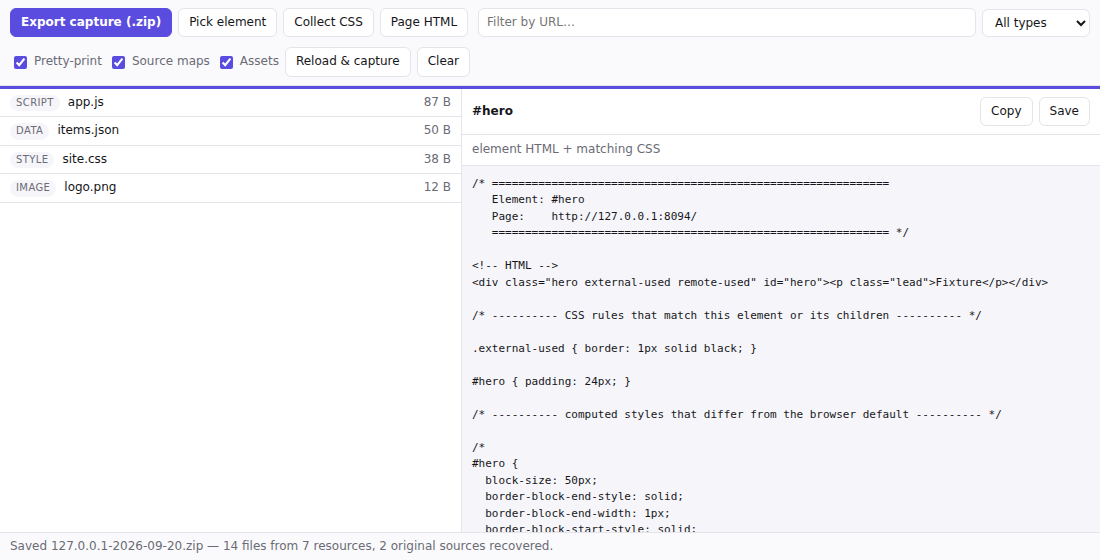
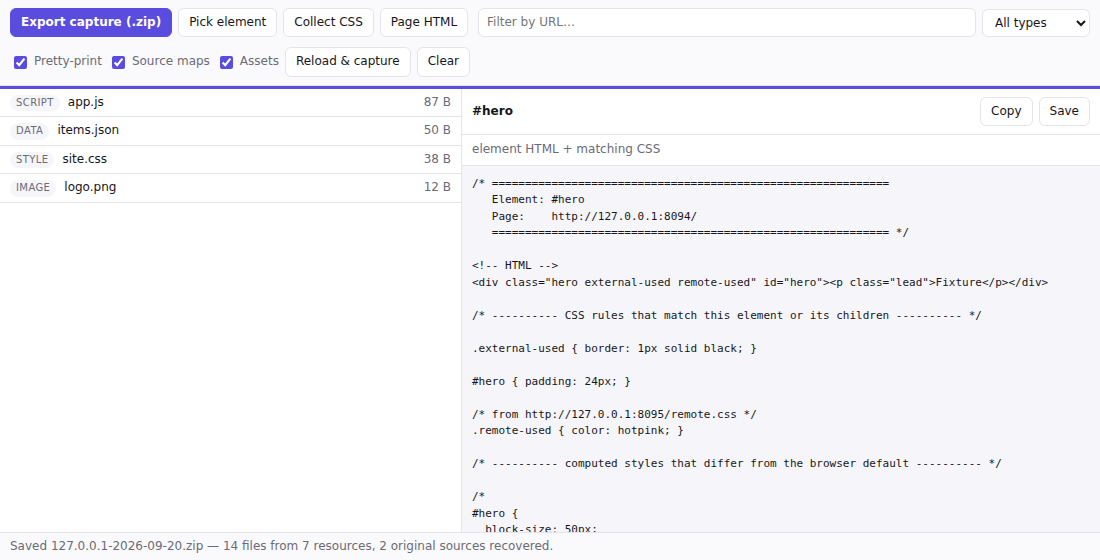
Give the element picker cross-origin CSS
The picker runs inside the page, where a cross-origin stylesheet throws on
cssRules, so CDN-hosted rules were missing from every picked snippet.

The extension now fetches those stylesheets before the picker starts and
passes the text in; the picker re-parses them as constructed stylesheets and
matches them like any other source. Rules from a fetched sheet are credited
with a /* from <href> */ banner, and their relative url() references are
rewritten to absolute so a pasted snippet still renders elsewhere.

The popup no longer injects the picker itself: it asks the service worker,
which outlives the popup when it closes on the user's click. The DevTools
panel and the popup now share one picker driver.

Claude-Session: https://claude.ai/code/session_01LyV3ssgCNSxuY3qXMzqTU8

Changed region(s): [[0.4327, 0.8196, 0.8345, 0.9714], [0.4327, 0.7286, 0.8345, 0.7893]]

diff --git a/web-source-copier/src/lib/element-inspector.js b/web-source-copier/src/lib/element-inspector.js
@@ -13,6 +13,20 @@ export function elementInspectorRunner(request) {
   const deliver = (request && request.deliver) || 'return';
   const ID = '__web_source_copier_picker__';
 
+  // Stylesheets the page itself cannot read (cross-origin, no CORS headers).
+  // The extension fetched them for us; re-parse them here so their rules can be
+  // matched against the picked element like any other source.
+  const externalSheets = [];
+  ((request && request.externalCss) || []).forEach((entry) => {
+    try {
+      const sheet = new CSSStyleSheet();
+      sheet.replaceSync(entry.css);
+      externalSheets.push({ label: entry.href, rules: sheet.cssRules });
+    } catch (err) {
+      /* unparseable stylesheet: skipped */
+    }
+  });
+
   const previous = document.getElementById(ID);
   if (previous) previous.remove();
 
@@ -97,45 +111,50 @@ export function elementInspectorRunner(request) {
         }
       });
 
-    const walk = (rules, wrapper) => {
+    const walk = (rules, wrapper, source) => {
       for (const rule of rules) {
         if (rule instanceof CSSStyleRule) {
-          if (matchesAny(rule.selectorText)) hits.push({ wrapper, text: rule.cssText });
+          if (matchesAny(rule.selectorText)) hits.push({ wrapper, source, text: rule.cssText });
         } else if (typeof CSSGroupingRule !== 'undefined' && rule instanceof CSSGroupingRule) {
           const prelude = rule.cssText.slice(0, rule.cssText.indexOf('{') + 1).trim();
-          walk(rule.cssRules, wrapper ? wrapper + '\n' + prelude : prelude);
+          walk(rule.cssRules, wrapper ? wrapper + '\n' + prelude : prelude, source);
         } else if (rule instanceof CSSFontFaceRule || (typeof CSSKeyframesRule !== 'undefined' && rule instanceof CSSKeyframesRule)) {
-          hits.push({ wrapper: '', text: rule.cssText, atRule: true });
+          hits.push({ wrapper: '', source, text: rule.cssText, atRule: true });
         }
       }
     };
 
     Array.from(document.styleSheets).forEach((sheet) => {
       try {
-        walk(sheet.cssRules, '');
+        walk(sheet.cssRules, '', '');
       } catch (err) {
-        /* cross-origin sheet: skipped here, the full export still fetches it */
+        /* unreadable here; the same sheet arrives below via externalSheets */
       }
     });
+    externalSheets.forEach((sheet) => walk(sheet.rules, '', sheet.label));
 
     const grouped = new Map();
     hits.forEach((hit) => {
       if (hit.atRule) return;
-      const list = grouped.get(hit.wrapper) || [];
+      const key = hit.source + '\u0000' + hit.wrapper;
+      const list = grouped.get(key) || [];
       list.push(hit.text);
-      grouped.set(hit.wrapper, list);
+      grouped.set(key, list);
     });
 
     const chunks = [];
-    grouped.forEach((list, wrapper) => {
+    grouped.forEach((list, key) => {
+      const source = key.split('\u0000')[0];
+      const wrapper = key.slice(source.length + 1);
+      const banner = source ? '/* from ' + source + ' */\n' : '';
       const body = list.join('\n\n');
       if (!wrapper) {
-        chunks.push(body);
+        chunks.push(banner + body);
         return;
       }
       const opens = wrapper.split('\n');
       const indented = body.split('\n').map((line) => (line ? '  '.repeat(opens.length) + line : line)).join('\n');
-      chunks.push(opens.join(' {\n') + '\n' + indented + '\n' + opens.map(() => '}').join('\n'));
+      chunks.push(banner + opens.join(' {\n') + '\n' + indented + '\n' + opens.map(() => '}').join('\n'));
     });
 
     const fontFaces = hits.filter((hit) => hit.atRule).map((hit) => hit.text);
@@ -200,7 +219,7 @@ export function elementInspectorRunner(request) {
       '',
       '/* ---------- CSS rules that match this element or its children ---------- */',
       '',
-      css || '/* none — this element is styled only inline or by cross-origin CSS */'
+      css || '/* none — this element carries no matching rules (inline styles only?) */'
     ];
     if (atRules.length) {
       parts.push('', '/* ---------- @font-face / @keyframes in scope ---------- */', '', atRules.join('\n\n'));

diff --git a/web-source-copier/src/lib/picker.js b/web-source-copier/src/lib/picker.js
@@ -1,0 +1,92 @@
+/**
+ * Driving the element picker from an extension context.
+ *
+ * A page cannot read a cross-origin stylesheet, and the picker runs inside the
+ * page, so on its own it would miss every rule served from a CDN. The fix is to
+ * fetch those sheets here first — where `host_permissions` apply — and hand the
+ * text to the picker, which parses it into constructed stylesheets and matches
+ * against it like any other source.
+ */
+
+import { elementInspectorRunner } from './element-inspector.js';
+
+/** Injected: which stylesheets does this page refuse to let us read? */
+export function blockedSheetHrefsRunner() {
+  const hrefs = [];
+  Array.from(document.styleSheets).forEach((sheet) => {
+    try {
+      // Touching cssRules is what throws on a cross-origin sheet.
+      void sheet.cssRules;
+    } catch (err) {
+      if (sheet.href) hrefs.push(sheet.href);
+    }
+  });
+  return hrefs;
+}
+
+/**
+ * Rewrites relative `url()` references against the stylesheet's own URL.
+ * Fetched CSS is re-parsed inside the page, where a relative path would
+ * otherwise resolve against the page instead of the stylesheet.
+ */
+export function absolutizeCssUrls(css, baseHref) {
+  if (!baseHref) return css;
+  return css.replace(/url\(\s*(['"]?)([^'")]+)\1\s*\)/gi, (match, quote, reference) => {
+    const trimmed = reference.trim();
+    if (!trimmed || /^(data:|blob:|about:|#|https?:|\/\/)/i.test(trimmed)) return match;
+    try {
+      return 'url(' + quote + new URL(trimmed, baseHref).href + quote + ')';
+    } catch (err) {
+      return match;
+    }
+  });
+}
+
+/** Every stylesheet the page cannot read, fetched and ready to re-parse. */
+export async function fetchExternalCss(tabId) {
+  let hrefs = [];
+  try {
+    const results = await chrome.scripting.executeScript({
+      target: { tabId },
+      func: blockedSheetHrefsRunner
+    });
+    hrefs = Array.from(new Set(results.flatMap((entry) => entry.result || [])));
+  } catch (err) {
+    return [];
+  }
+
+  const fetched = await Promise.all(
+    hrefs.map(async (href) => {
+      try {
+        let response = await fetch(href, { credentials: 'omit' });
+        if (response.status === 401 || response.status === 403) {
+          response = await fetch(href, { credentials: 'include' });
+        }
+        if (!response.ok) return null;
+        return { href, css: absolutizeCssUrls(await response.text(), href) };
+      } catch (err) {
+        return null;
+      }
+    })
+  );
+
+  return fetched.filter(Boolean);
+}
+
+/**
+ * @param {object} config
+ * @param {number} config.tabId
+ * @param {'clipboard'|'return'} [config.deliver] 'clipboard' lets the page copy
+ *        from inside its own click handler, which is what makes the popup flow
+ *        work after the popup has closed.
+ * @returns the picked element's payload, or null if the user pressed Esc.
+ */
+export async function runPicker(config) {
+  const externalCss = await fetchExternalCss(config.tabId);
+  const [{ result }] = await chrome.scripting.executeScript({
+    target: { tabId: config.tabId },
+    func: elementInspectorRunner,
+    args: [{ deliver: config.deliver || 'return', externalCss }]
+  });
+  return result;
+}

diff --git a/web-source-copier/src/background/service-worker.js b/web-source-copier/src/background/service-worker.js
@@ -1,10 +1,16 @@
 /**
- * Fetches stylesheets the page itself is not allowed to read.
+ * Two jobs the page cannot do for itself:
+ *
+ * 1. fetch stylesheets it is not allowed to read, and
+ * 2. start the element picker on the popup's behalf — the popup closes the
+ *    moment the user clicks the page, so the injection is owned here instead.
  *
  * A cross-origin <link rel="stylesheet"> without CORS headers throws on
  * `sheet.cssRules`, but the extension's host permissions let the service worker
  * fetch the same URL and hand the text back to the popup.
  */
+
+import { runPicker } from '../lib/picker.js';
 
 const MAX_BYTES = 8 * 1024 * 1024;
 
@@ -25,11 +31,23 @@ async function fetchStylesheet(href) {
 }
 
 chrome.runtime.onMessage.addListener((message, _sender, sendResponse) => {
-  if (!message || message.type !== 'fetch-stylesheets') return false;
+  if (!message) return false;
 
-  Promise.all((message.hrefs || []).map(fetchStylesheet)).then((results) => {
-    sendResponse({ results });
-  });
+  if (message.type === 'fetch-stylesheets') {
+    Promise.all((message.hrefs || []).map(fetchStylesheet)).then((results) => {
+      sendResponse({ results });
+    });
+    return true; // keep the message channel open for the async response
+  }
 
-  return true; // keep the message channel open for the async response
+  if (message.type === 'start-picker') {
+    // Fetch the page's unreadable stylesheets, then hand the picker over to the
+    // page: it copies from inside its own click handler and shows its own
+    // toast, so nothing here needs to wait for the result.
+    runPicker({ tabId: message.tabId, deliver: 'clipboard' }).catch(() => {});
+    sendResponse({ started: true });
+    return false;
+  }
+
+  return false;
 });

diff --git a/web-source-copier/src/popup/popup.js b/web-source-copier/src/popup/popup.js
@@ -1,5 +1,4 @@
 import { cssCopierRunner } from '../lib/css-collector.js';
-import { elementInspectorRunner } from '../lib/element-inspector.js';
 import { captureSite } from '../lib/bundle.js';
 import { formatHtml } from '../lib/format.js';
 
@@ -231,17 +230,16 @@ ui.copyHtml.addEventListener('click', async () => {
   }
 });
 
-ui.pickElement.addEventListener('click', async () => {
-  try {
-    await chrome.scripting.executeScript({
-      target: { tabId: currentTab.id },
-      func: elementInspectorRunner,
-      args: [{ deliver: 'clipboard' }]
-    });
-    window.close(); // the page takes over from here
-  } catch (err) {
-    setStatus('Could not start the picker: ' + err.message, true);
-  }
+ui.pickElement.addEventListener('click', () => {
+  // The service worker runs the picker: it outlives this popup, which closes as
+  // soon as the user clicks the page.
+  chrome.runtime.sendMessage({ type: 'start-picker', tabId: currentTab.id }, () => {
+    if (chrome.runtime.lastError) {
+      setStatus('Could not start the picker: ' + chrome.runtime.lastError.message, true);
+      return;
+    }
+    window.close();
+  });
 });
 
 ui.exportZip.addEventListener('click', async () => {

diff --git a/web-source-copier/src/devtools/panel.js b/web-source-copier/src/devtools/panel.js
@@ -1,7 +1,7 @@
 import { captureSite, kindOf } from '../lib/bundle.js';
 import { formatByKind, formatHtml } from '../lib/format.js';
 import { extractOriginalSources, findSourceMappingUrl } from '../lib/sourcemap.js';
-import { elementInspectorRunner } from '../lib/element-inspector.js';
+import { runPicker } from '../lib/picker.js';
 import { cssCopierRunner } from '../lib/css-collector.js';
 
 const tabId = chrome.devtools.inspectedWindow.tabId;
@@ -320,11 +320,7 @@ el('exportZip').addEventListener('click', async () => {
 el('pickElement').addEventListener('click', async () => {
   setStatus('Click an element in the page (Esc cancels)…');
   try {
-    const [{ result }] = await chrome.scripting.executeScript({
-      target: { tabId },
-      func: elementInspectorRunner,
-      args: [{ deliver: 'return' }]
-    });
+    const result = await runPicker({ tabId, deliver: 'return' });
     if (!result) return setStatus('Picker cancelled.');
     selected = { url: result.selector, kind: 'style', mimeType: 'text/plain' };
     selectedText = result.text;

diff --git a/web-source-copier/README.md b/web-source-copier/README.md
@@ -41,7 +41,10 @@ your capture is the site's actual development source.
 - **Pick an element** — closes the popup, hands you a crosshair; click anything
   and its HTML plus *only the CSS that matches it and its children* (plus the
   `@font-face`/`@keyframes` in scope and its non-default computed styles) lands
-  on your clipboard.
+  on your clipboard. Cross-origin stylesheets are fetched and re-parsed first,
+  so CDN-hosted rules are in the snippet too, credited to the sheet they came
+  from — and their relative `url()` references are rewritten to absolute, so the
+  snippet still renders when you paste it elsewhere.
 
 **Export**
 - **Export capture (.zip)** — the whole site as the browser sees it, written
@@ -88,6 +91,8 @@ binary assets.
 | Cross-origin stylesheets throw on `sheet.cssRules` | The extension refetches them with host permissions (service worker for the popup's CSS copy, direct `fetch` from the extension page for exports) |
 | "Which rules are actually used?" | Every selector is tested against the live DOM with `querySelector`, recursing into `@media`/`@supports`/`@container` and dropping emptied groups. Pseudo-elements and state pseudo-classes are stripped first, so `a:hover` survives as long as an `a` exists |
 | XHR/API bodies are not refetchable | The DevTools panel reads them out of the network recording (`getContent`) instead |
+| The element picker runs *in* the page, where cross-origin CSS is unreadable | The extension fetches those sheets before the picker starts and passes the text in; the picker re-parses them as constructed stylesheets and matches against them like any other source |
+| The popup closes the instant you click the page | The service worker owns the picker injection, so it outlives the popup; the page copies from inside its own click handler, where the clipboard is allowed |
 | Minified bundles are unreadable | Tokenizer-based formatters that only ever *insert* whitespace — strings, comments, regex literals and template literals are passed through untouched |
 | ZIP without a library | `CompressionStream('deflate-raw')` plus a hand-written central directory |
 | Original sources | `sourceMappingURL` (including inline `data:` maps and index maps with `sections`) → `sourcesContent` → a real folder tree |
@@ -128,6 +133,7 @@ src/
     css-collector.js      page-side CSS walker           (injected)
     page-inventory.js     page-side resource inventory   (injected)
     element-inspector.js  page-side element picker       (injected)
+    picker.js             picker driver: fetches the CSS the page cannot read
     bundle.js             capture pipeline → ZIP
     zip.js                ZIP writer (deflate-raw)
     format.js             JS/CSS/HTML/JSON pretty-printers
@@ -167,9 +173,6 @@ panel's `chrome.devtools` host object. Everything below those is shipped code.
 - Browser-internal pages (`chrome://`, the extension store, the PDF viewer)
   cannot be scripted.
 - Closed shadow roots are invisible to any extension by design.
-- The element picker's CSS comes from stylesheets the page can read; a
-  cross-origin sheet's rules show up in **Copy CSS** and in exports, not in a
-  pick.
 - `@import` inside a *fetched* cross-origin stylesheet is not followed.
 - Files over 12 MB are skipped by the exporter (configurable in `bundle.js`).
 - Keep the popup open while an export runs; long captures belong in the panel.
